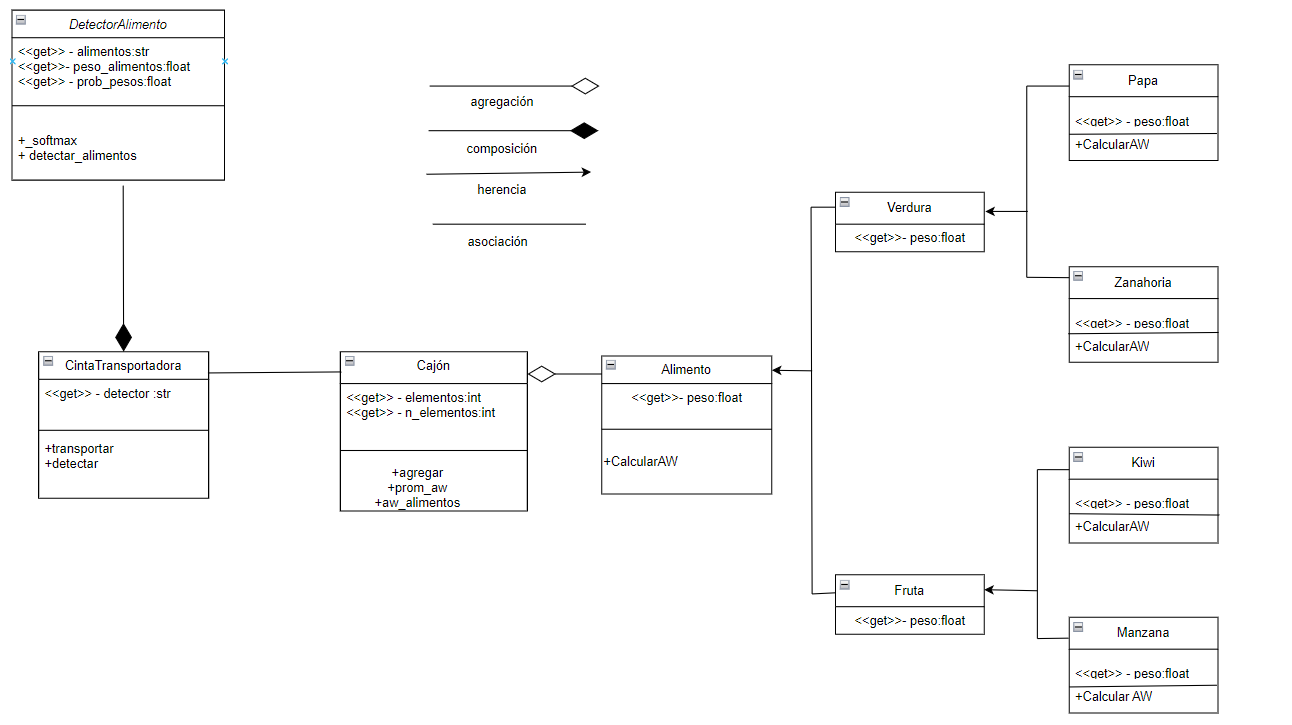
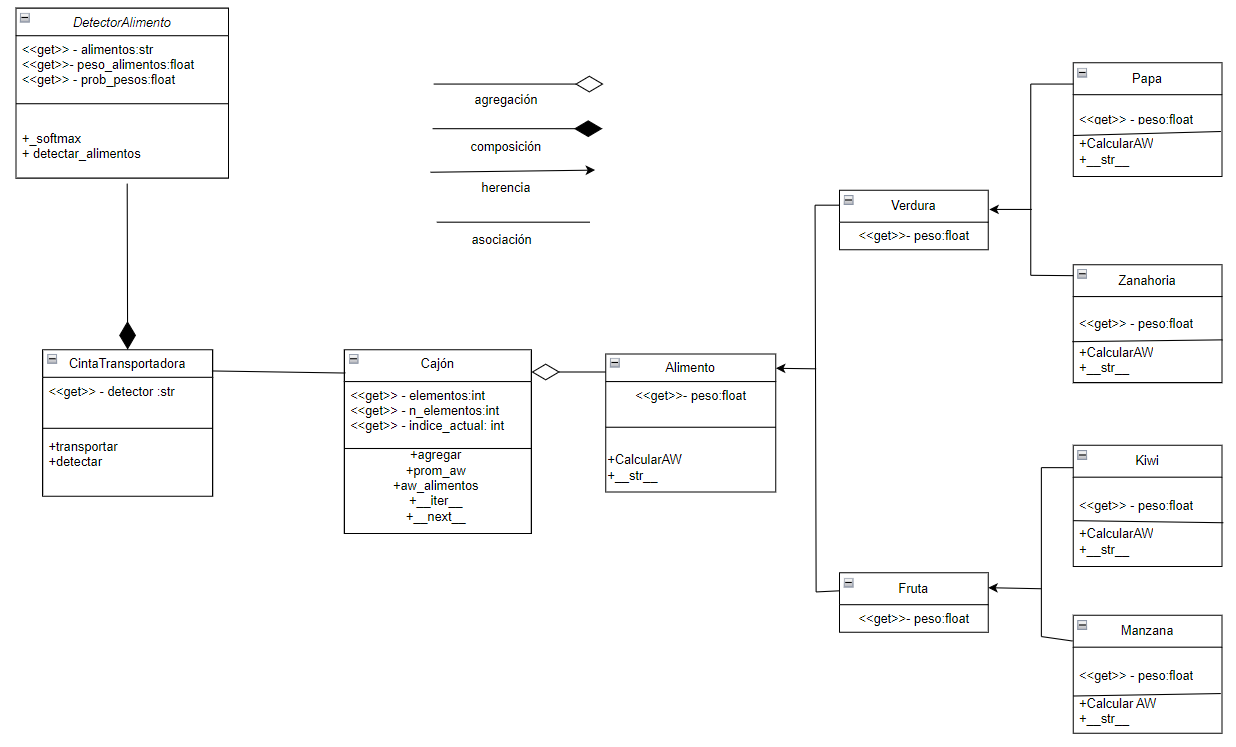
TP2 OK

diff --git a/TrabajoPractico_2/cinta_transportadora/modules/cajon.py b/TrabajoPractico_2/cinta_transportadora/modules/cajon.py
@@ -3,6 +3,7 @@ class Cajon: #Se asocia con CintaTransportadora
     def __init__(self, n_elementos=int):
         self.__elementos=[]
         self.__n_elementos=n_elementos
+        self.__indice_actual = 0
     
     @property
     def elementos(self):
@@ -10,7 +11,10 @@ class Cajon: #Se asocia con CintaTransportadora
     @property
     def n_elementos(self):
         return(self.__n_elementos)
-
+    @property
+    def indice_actual(self):
+        return(self.__indice_actual)
+    
     def agregar(self, alimento): 
         if not isinstance(alimento, Alimento):
             raise Exception("No es un alimento")
@@ -42,13 +46,34 @@ class Cajon: #Se asocia con CintaTransportadora
             "aw_total" :  round(self.prom_aw(Alimento),2) 
         }
         return actividad
-    # def__iter__
-    # def__next__
+    
+    def __iter__(self): #se llama cuando se utiliza la función iter(cajon) para obtener un iterador desde el objeto cajon.
+        self.indice_actual = 0  # Reiniciar el índice al inicio
+        return self 
+    #Devuelve self como el propio objeto iterador. Esto significa que la propia instancia de Cajon actuará como el 
+    #iterador, y el método __next__ será llamado en esta misma instancia.
+
+    def __next__(self): 
+        # se llama en cada iteración del ciclo for para obtener el siguiente elemento.
+        if self.indice_actual < len(self.elementos): 
+            # Esto asegura que no intentemos acceder a elementos que están más allá de la cantidad de elementos reales en el cajón.
+            elemento = self.elementos[self.indice_actual] 
+            #Obtiene el elemento actual del cajón utilizando el índice actual.
+            self.indice_actual += 1
+            # Incrementa el índice actual en 1 para que en la próxima iteración se obtenga el siguiente elemento.
+            return elemento
+        raise StopIteration 
+        #Cuando hemos recorrido todos los elementos del cajón, lanzamos la excepción StopIteration. 
+        # Esto le indica al ciclo for que detenga la iteración, ya que no hay más elementos que recorrer.
+
 
 if __name__ == "__main__":
-    cajon1=Cajon(10)
-    cajon1.agregar("Indefinido")
-    print(cajon1.elementos)
+
+    cajon = Cajon(5)
+    cajon.agregar(Manzana(0.1))
+    cajon.agregar(Kiwi(0.45))
+    cajon.agregar(Papa(0.05))
+    cajon.agregar(Zanahoria(0.4))
 
     for alimento in cajon:
-	print(alimento)
+        print(alimento)

diff --git a/TrabajoPractico_2/cinta_transportadora/modules/alimentos.py b/TrabajoPractico_2/cinta_transportadora/modules/alimentos.py
@@ -6,13 +6,17 @@ class Alimento(ABC): #Todas sus instancias se agregan a un cajón
     def __init__(self, peso):
         self.__peso= peso
     
-    @abstractmethod
-    def CalcularAW(self): 
-        pass
-    
     @property
     def peso(self):
         return(self.__peso)
+    
+    @abstractmethod
+    def CalcularAW(self): 
+        pass
+
+    @abstractmethod
+    def __str__(self):
+        pass
 
 
 class Fruta(Alimento, ABC):
@@ -33,9 +37,9 @@ class Manzana(Fruta):
         c=15 
         return (0.97*(((c*self.peso)**2)/(1+(c*self.peso)**2)))
     
-    # def __str__(self):
-    #     salida=self
-    #     return (salida) 
+    def __str__(self):
+        return "Manzana"
+
 
 
 class Kiwi(Fruta):
@@ -49,9 +53,8 @@ class Kiwi(Fruta):
         c=18#**(-1)
         return (0.96*((1-sp.exp(-(c*self.peso)))/(1+sp.exp(-(c*self.peso)))))
     
-    # def __str__(self):
-    #     salida=self
-    #     return (salida)
+    def __str__(self):
+        return "Kiwi"
 
 
 class Verdura(Alimento,ABC):
@@ -70,9 +73,8 @@ class Papa(Verdura):
         c=18#**(-1)
         return (0.66*sp.atan(c*self.peso))
     
-    # def __str__(self):
-    #     salida=self
-    #     return (salida)
+    def __str__(self):
+        return "Papa"
         
 
 class Zanahoria(Verdura):
@@ -86,7 +88,6 @@ class Zanahoria(Verdura):
         c=10#**(-1) 
         return (0.96*(1-sp.exp(-(c*self.peso))))
     
-    # def __str__(self):
-    #     salida=self
-    #     return (salida)
+    def __str__(self):
+        return "Zanahoria"
 
